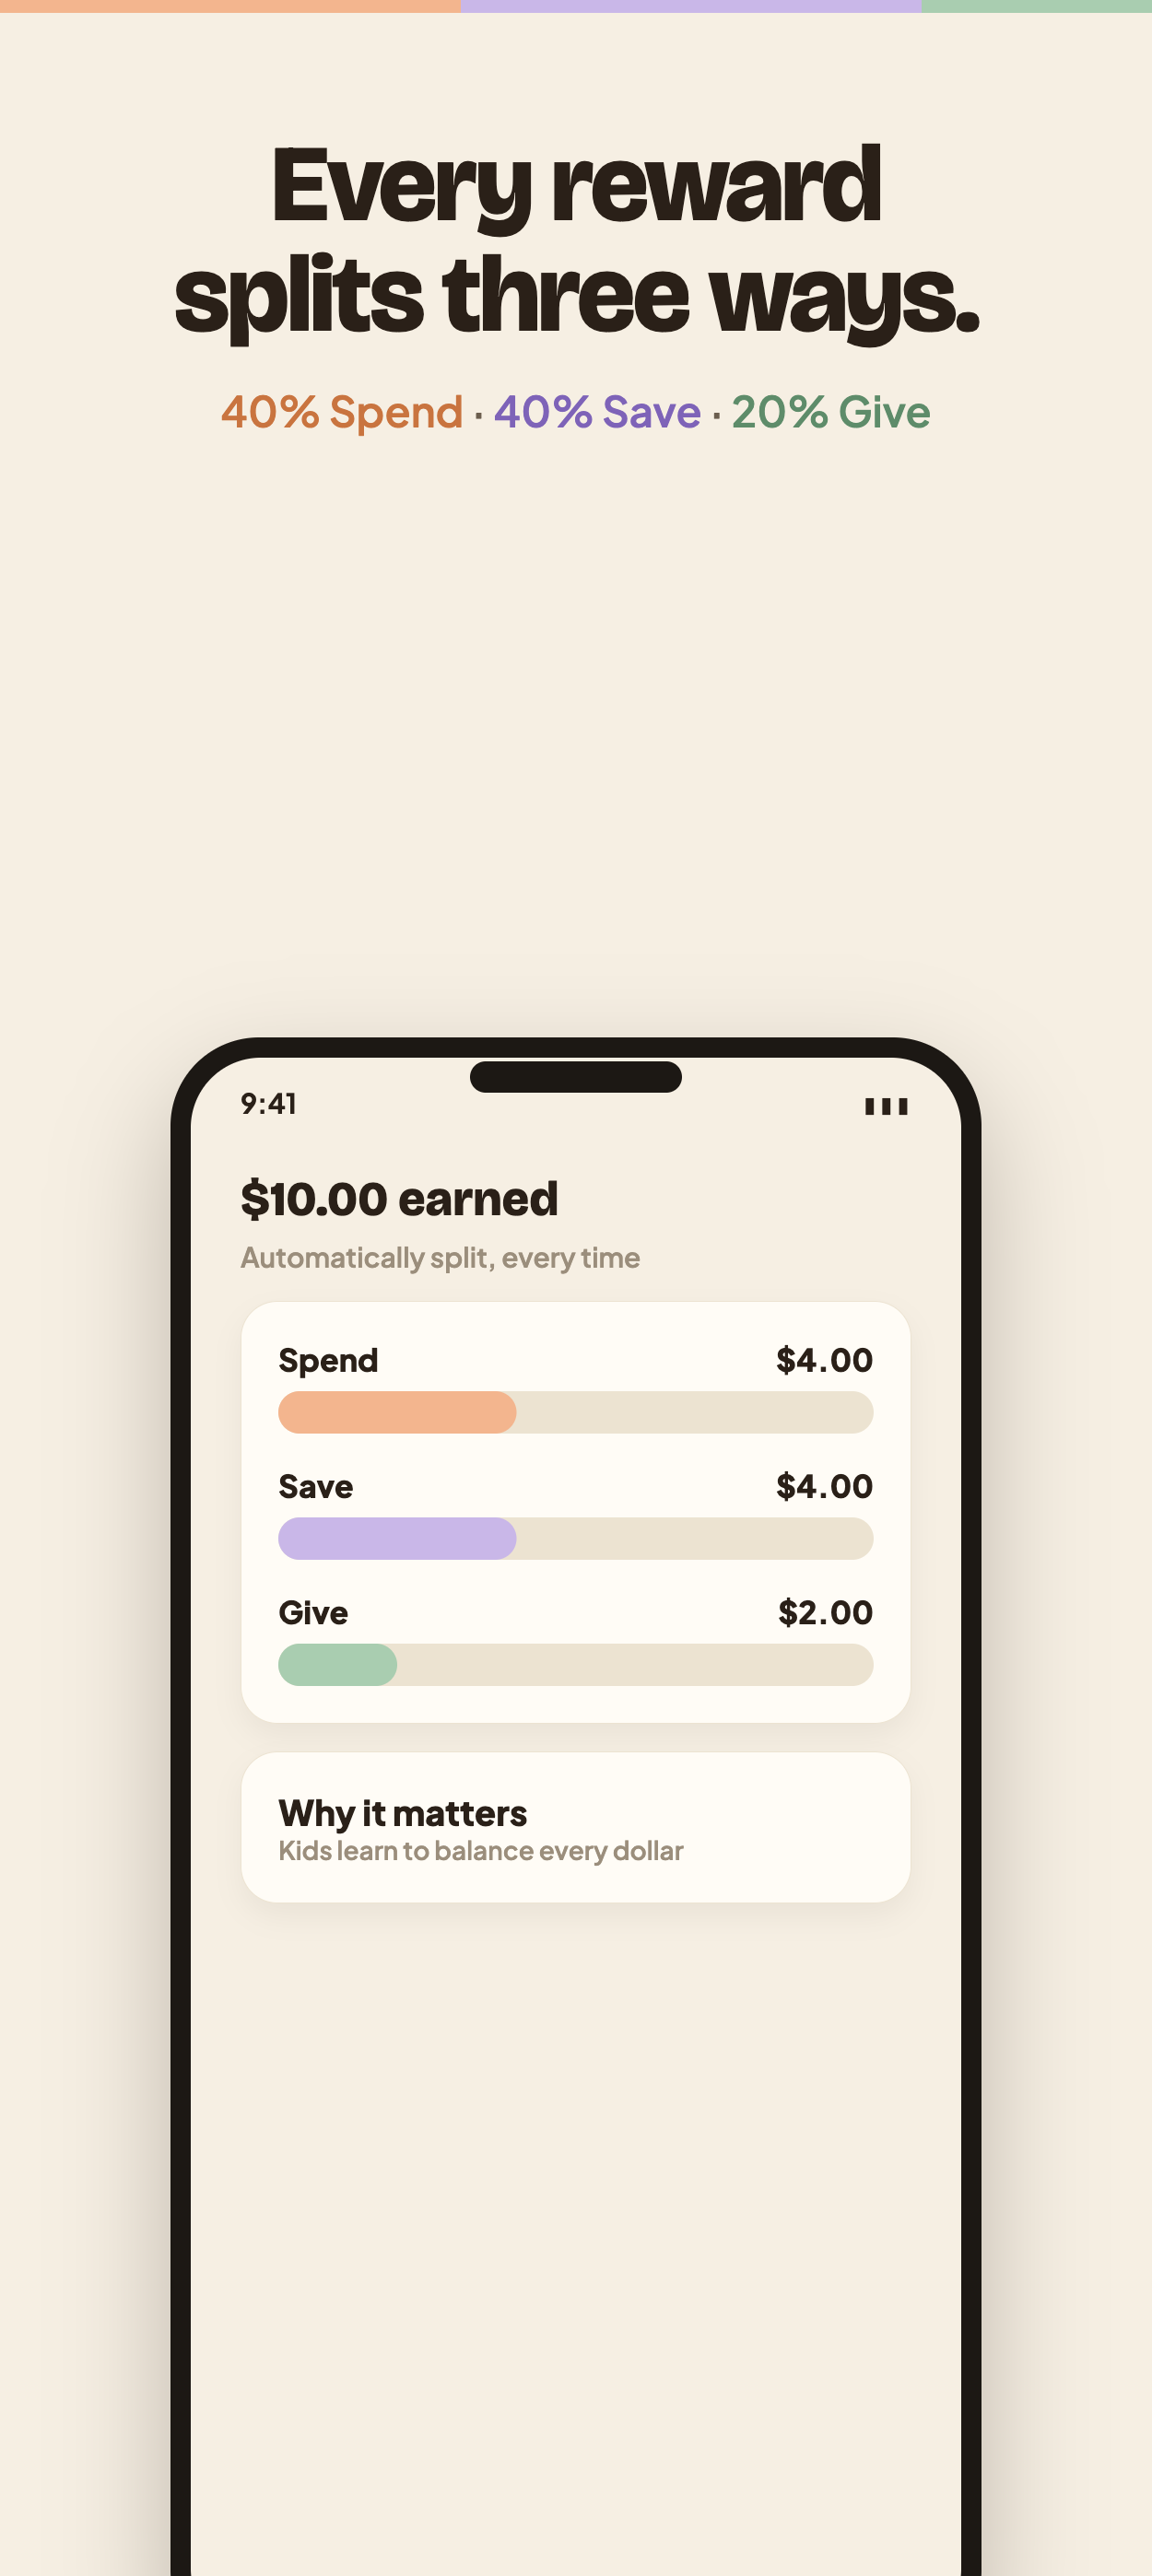
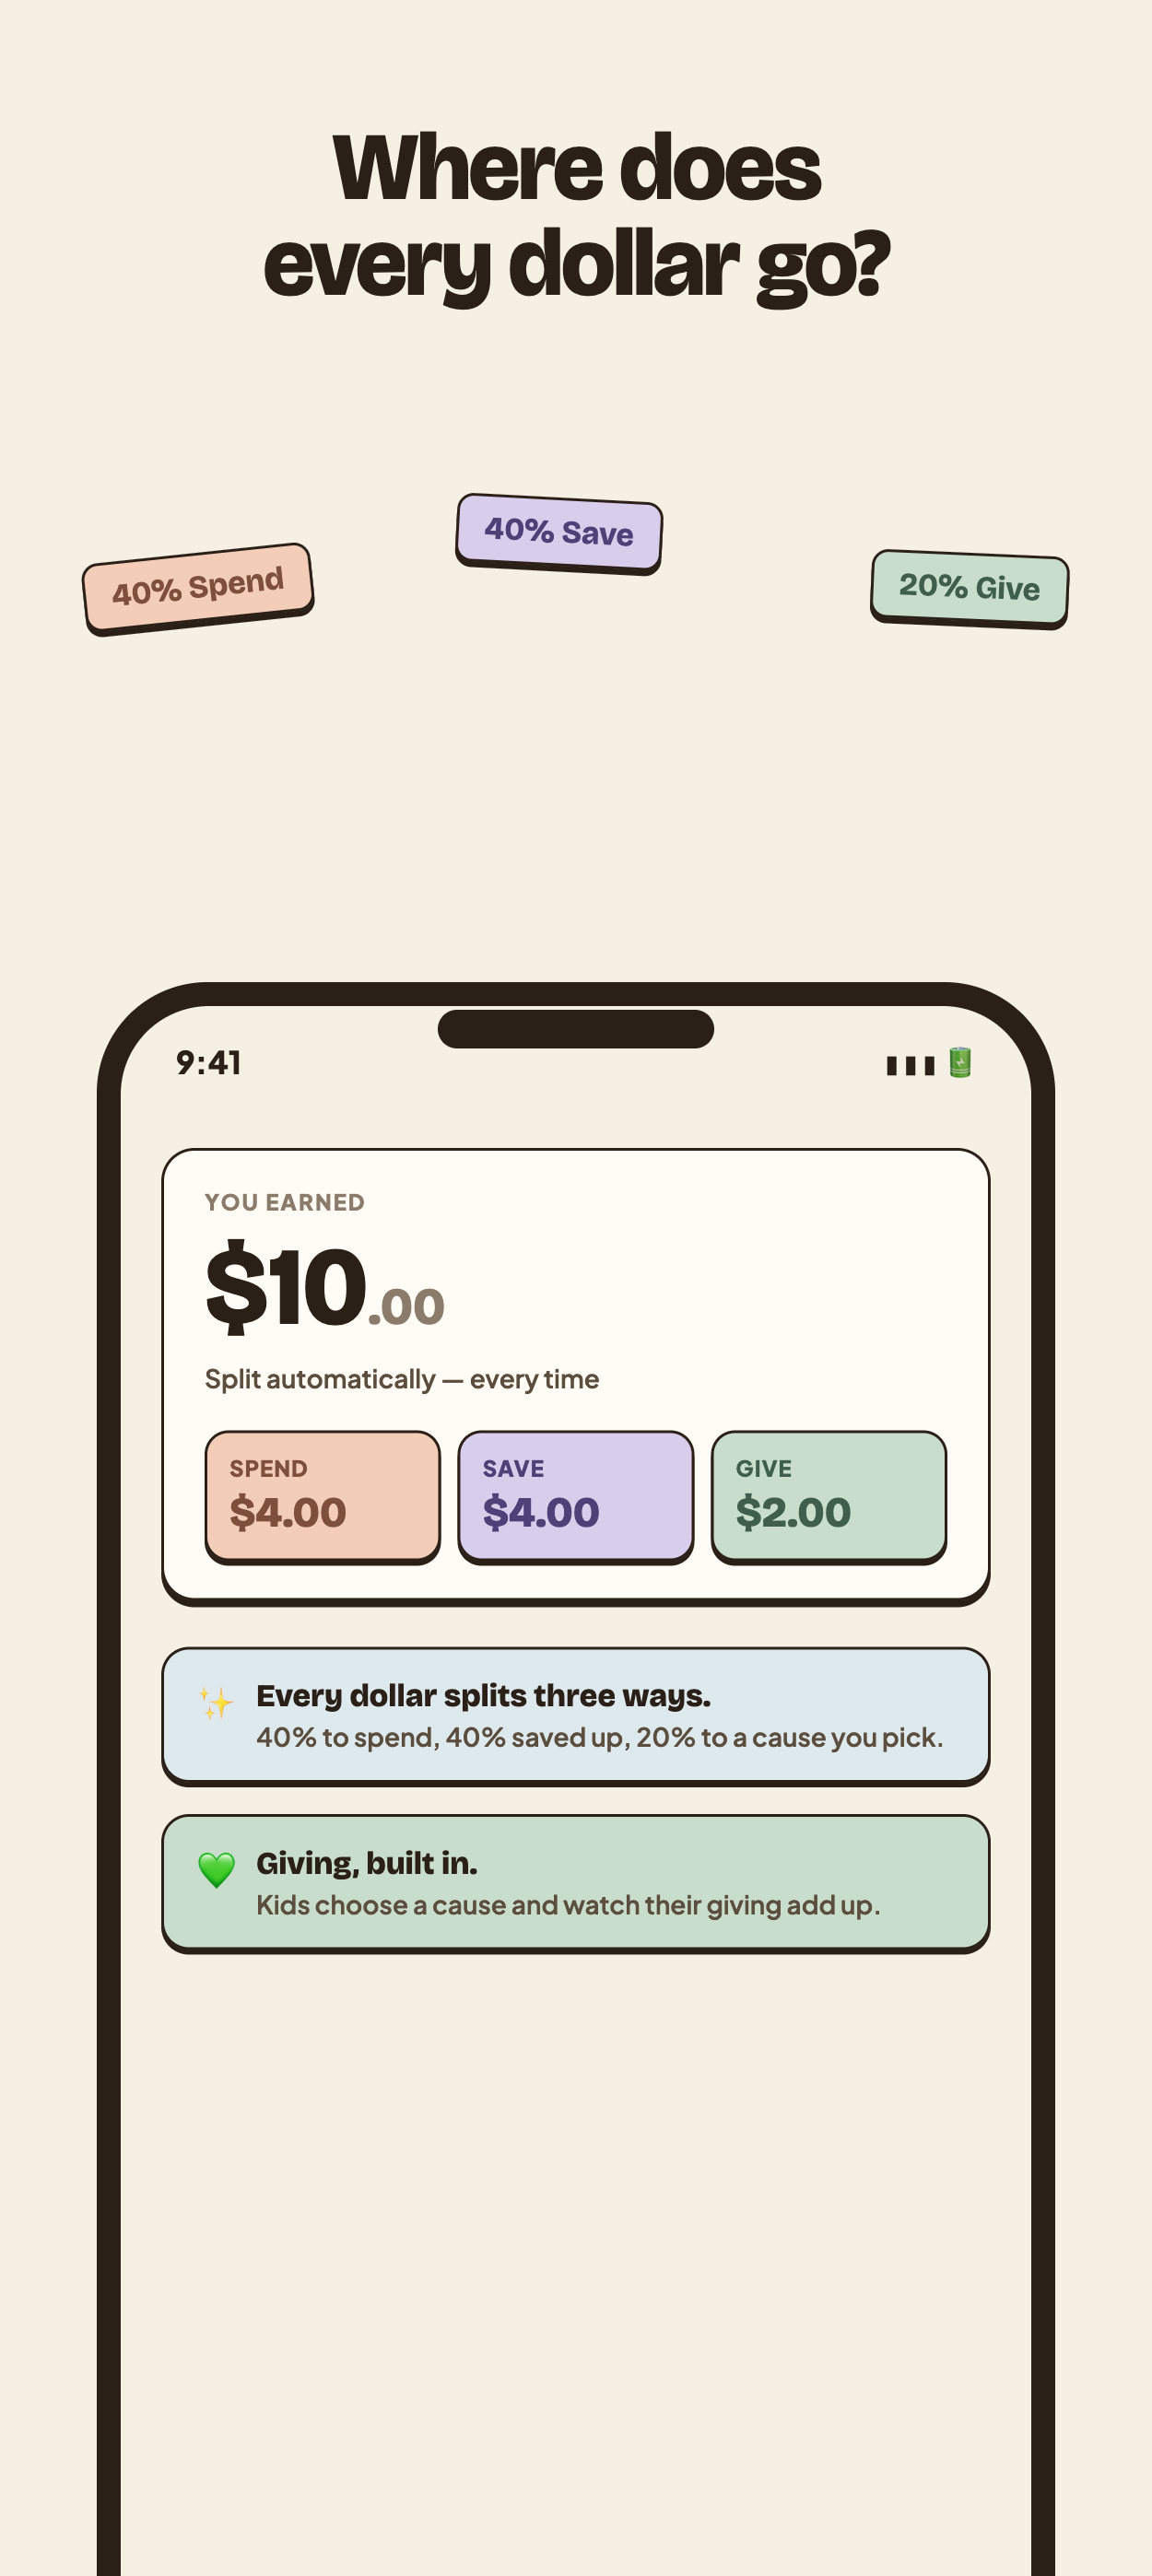
docs(app-store): rebuild screenshots in the real toybox style
Replace the generic mock with faithful recreations of the actual app
screens (kid home, the 40/40/20 split, parent approve board, levels) in
the toybox design language — ink outlines, hard offset shadows, rotated
stickers, real bucket ramp colors, squircle avatars, giving-green Approve.
Each panel poses a question answered by the app screen.

Changed region(s): [[0.0624, 0.3734, 0.936, 1.0], [0.0, 0.0, 1.0, 0.2489]]

diff --git a/docs/app-store/screenshots.html b/docs/app-store/screenshots.html
@@ -2,99 +2,137 @@
 <html lang="en">
 <head>
 <meta charset="utf-8" />
-<title>Chorey — App Store screenshots</title>
+<title>Chorey — App Store screenshots (toybox)</title>
 <link rel="preconnect" href="https://fonts.googleapis.com" />
 <link rel="preconnect" href="https://fonts.gstatic.com" crossorigin />
-<link href="https://fonts.googleapis.com/css2?family=Bricolage+Grotesque:opsz,wght@12..96,600;12..96,700;12..96,800&family=Plus+Jakarta+Sans:wght@400;600;700;800&display=swap" rel="stylesheet" />
+<link href="https://fonts.googleapis.com/css2?family=Bricolage+Grotesque:opsz,wght@12..96,600;12..96,700;12..96,800&family=Plus+Jakarta+Sans:wght@500;600;700;800&display=swap" rel="stylesheet" />
 <style>
   :root{
-    --cream:#F6EFE3; --cream-deep:#ECE3D1; --surface:#FFFCF6;
-    --ink:#2A2018; --ink-soft:#6B5E4E; --ink-faint:#9B8E7C;
-    --spend:#F3B58E; --savings:#C9B7E8; --giving:#A9CDB0;
-    --accent:#E8965E; --dark:#1C1814;
+    --cream:#F6EFE3; --raised:#FBF7EE; --modal:#FFFCF5; --sunken:#F1E9D9; --deepest:#ECE3D1;
+    --ink:#2A2018; --ink2:#5C4E3F; --ink3:#8A7B6A;
+    --spend2:#F4CDB9; --spend4:#E8B4A0; --spend8:#7E4F3A;
+    --save2:#D9CDEC; --save4:#C8B8E0; --save8:#4F4078;
+    --give2:#C9DDCD; --give4:#A8C9B5; --give6:#6F9881; --give8:#3F5E4C;
+    --accent:#C58A72; --warn-t:#FAEEDC; --warn:#C28F3F; --info-t:#DEE9EE; --info:#6E8E9D;
     --disp:"Bricolage Grotesque",system-ui,sans-serif;
     --body:"Plus Jakarta Sans",system-ui,sans-serif;
   }
   *{margin:0;padding:0;box-sizing:border-box;}
-  body{background:#222;display:flex;flex-wrap:wrap;gap:40px;padding:40px;font-family:var(--body);}
+  body{background:#2a2a2a;display:flex;flex-wrap:wrap;gap:40px;padding:40px;}
 
-  /* Each panel is an exact App Store 6.7" frame: 1290 x 2796 */
-  .panel{
-    width:1290px;height:2796px;position:relative;overflow:hidden;
-    background:var(--cream);display:flex;flex-direction:column;align-items:center;
-  }
-  .panel .stripe{position:absolute;top:0;left:0;right:0;height:14px;display:flex;}
-  .stripe i{height:100%;}
-  .stripe .s{flex:40;background:var(--spend);}
-  .stripe .v{flex:40;background:var(--savings);}
-  .stripe .g{flex:20;background:var(--giving);}
+  .panel{width:1290px;height:2796px;position:relative;overflow:hidden;background:var(--cream);
+    font-family:var(--body);display:flex;flex-direction:column;align-items:center;}
 
-  .headline{padding:140px 110px 0;text-align:center;}
-  .headline h1{font-family:var(--disp);font-weight:800;font-size:118px;line-height:1.02;letter-spacing:-3px;color:var(--ink);}
-  .headline p{font-family:var(--body);font-weight:600;font-size:46px;line-height:1.35;color:var(--ink-soft);margin-top:34px;}
-  .headline .hl-spend{color:#C9743F;} .headline .hl-save{color:#7E63B8;} .headline .hl-give{color:#5E8C6A;}
+  /* question headline */
+  .q{padding:130px 100px 0;text-align:center;z-index:3;}
+  .q h1{font-family:var(--disp);font-weight:800;font-size:104px;line-height:1.0;letter-spacing:-2.5px;color:var(--ink);}
+  .q p{font-family:var(--body);font-weight:600;font-size:42px;color:var(--ink2);margin-top:26px;}
 
-  /* blobs */
-  .blob{position:absolute;border-radius:50%;filter:blur(2px);opacity:.55;}
+  /* toybox sticker */
+  .stk{display:inline-block;font-family:var(--disp);font-weight:700;font-size:34px;color:var(--ink);
+    border:3px solid var(--ink);border-radius:18px;padding:14px 28px;box-shadow:0 6px 0 var(--ink);
+    transform:rotate(-2deg);background:var(--warn-t);}
+  .stk.spend{background:var(--spend2);color:var(--spend8);} .stk.save{background:var(--save2);color:var(--save8);}
+  .stk.give{background:var(--give2);color:var(--give8);} .stk.rot{transform:rotate(2.5deg);}
+  .float{position:absolute;z-index:4;}
 
   /* phone */
-  .phone{margin-top:auto;margin-bottom:-90px;width:880px;height:1760px;background:var(--dark);
-    border-radius:96px;padding:22px;box-shadow:0 50px 120px rgba(42,32,24,.28);position:relative;}
-  .screen{width:100%;height:100%;background:var(--cream);border-radius:76px;overflow:hidden;position:relative;display:flex;flex-direction:column;}
-  .notch{position:absolute;top:26px;left:50%;transform:translateX(-50%);width:230px;height:34px;background:var(--dark);border-radius:20px;z-index:5;}
-  .sbar{display:flex;justify-content:space-between;padding:30px 54px 0;font-family:var(--body);font-weight:700;font-size:30px;color:var(--ink);}
-  .app{padding:54px;display:flex;flex-direction:column;gap:30px;flex:1;}
-  .app h3{font-family:var(--disp);font-weight:800;font-size:52px;color:var(--ink);}
-  .app .sub{font-family:var(--body);font-weight:600;font-size:30px;color:var(--ink-faint);margin-top:-18px;}
+  .phone{margin-top:auto;width:1040px;height:1880px;background:var(--ink);border-radius:120px;
+    padding:26px;box-shadow:0 18px 0 #1a130d;position:relative;margin-bottom:-150px;}
+  .scr{width:100%;height:100%;background:var(--cream);border-radius:96px;overflow:hidden;position:relative;}
+  .notch{position:absolute;top:30px;left:50%;transform:translateX(-50%);width:300px;height:42px;background:var(--ink);border-radius:24px;z-index:6;}
+  .sb{display:flex;justify-content:space-between;padding:38px 60px 0;font-family:var(--body);font-weight:800;font-size:34px;color:var(--ink);}
+  .app{padding:30px 44px;display:flex;flex-direction:column;}
 
-  .card{background:var(--surface);border:1px solid var(--cream-deep);border-radius:40px;padding:40px;box-shadow:0 14px 30px rgba(42,32,24,.06);}
-  .row{display:flex;align-items:center;gap:28px;}
-  .av{width:90px;height:90px;border-radius:28px;background:var(--savings);display:flex;align-items:center;justify-content:center;font-family:var(--disp);font-weight:800;font-size:44px;color:#3c2f5a;}
-  .grow{flex:1;}
-  .t1{font-family:var(--body);font-weight:800;font-size:38px;color:var(--ink);}
-  .t2{font-family:var(--body);font-weight:600;font-size:28px;color:var(--ink-faint);}
-  .pill{font-family:var(--body);font-weight:800;font-size:30px;padding:16px 30px;border-radius:999px;background:var(--accent);color:#fff;}
-  .pill.ghost{background:var(--cream);color:var(--ink-soft);border:1px solid var(--cream-deep);}
+  .over{font-family:var(--body);font-weight:800;font-size:24px;letter-spacing:2px;text-transform:uppercase;color:var(--ink3);}
+  .greet{font-family:var(--disp);font-weight:800;font-size:74px;letter-spacing:-2px;color:var(--ink);margin-top:6px;}
 
-  /* bucket bars */
-  .buckets{display:flex;flex-direction:column;gap:34px;}
-  .bk{display:flex;flex-direction:column;gap:14px;}
-  .bk .lab{display:flex;justify-content:space-between;font-family:var(--body);font-weight:800;font-size:34px;color:var(--ink);}
-  .bk .bar{height:46px;border-radius:999px;background:var(--cream-deep);overflow:hidden;}
-  .bk .fill{height:100%;border-radius:999px;}
-  .fill.spend{width:40%;background:var(--spend);} .fill.save{width:40%;background:var(--savings);} .fill.give{width:20%;background:var(--giving);}
+  /* toy tile */
+  .tile{background:var(--modal);border:3px solid var(--ink);border-radius:36px;box-shadow:0 7px 0 var(--ink);}
+  .tile.sm{box-shadow:0 5px 0 var(--ink);}
 
-  .coin{position:absolute;width:120px;height:120px;border-radius:50%;display:flex;align-items:center;justify-content:center;font-size:60px;box-shadow:0 16px 30px rgba(42,32,24,.12);}
+  .lvlrow{display:flex;align-items:center;justify-content:space-between;margin-top:34px;}
+  .chip{font-family:var(--disp);font-weight:700;font-size:30px;border:3px solid var(--ink);border-radius:14px;padding:8px 22px;box-shadow:0 5px 0 var(--ink);}
+  .chip.save{background:var(--save2);color:var(--save8);}
+  .cap{font-family:var(--body);font-weight:600;font-size:28px;color:var(--ink2);}
+  .bar{height:26px;background:var(--sunken);border:3px solid var(--ink);border-radius:999px;overflow:hidden;margin-top:18px;}
+  .bar i{display:block;height:100%;background:var(--save4);}
 
-  /* closing panel */
-  .close{justify-content:center;gap:50px;padding:0 120px;}
-  .close .mark{font-family:var(--disp);font-weight:800;font-size:150px;letter-spacing:-5px;color:var(--ink);}
-  .close .three{display:flex;gap:30px;margin-top:20px;}
-  .chip{font-family:var(--disp);font-weight:800;font-size:62px;padding:30px 54px;border-radius:40px;color:#3a2c1e;}
+  .hero{margin-top:34px;padding:40px 44px;}
+  .money{font-family:var(--disp);font-weight:800;color:var(--ink);}
+  .triple{display:flex;gap:18px;margin-top:30px;}
+  .bk{flex:1;border:3px solid var(--ink);border-radius:26px;box-shadow:0 5px 0 var(--ink);padding:22px 24px;}
+  .bk .bl{font-family:var(--body);font-weight:800;font-size:24px;letter-spacing:1px;text-transform:uppercase;}
+  .bk .bv{font-family:var(--disp);font-weight:800;font-size:46px;margin-top:6px;}
+  .bk.spend{background:var(--spend2);} .bk.spend .bl,.bk.spend .bv{color:var(--spend8);}
+  .bk.save{background:var(--save2);} .bk.save .bl,.bk.save .bv{color:var(--save8);}
+  .bk.give{background:var(--give2);} .bk.give .bl,.bk.give .bv{color:var(--give8);}
+
+  .sec{margin-top:46px;}
+  .sec .h{font-family:var(--disp);font-weight:800;font-size:52px;color:var(--ink);margin-top:6px;}
+  .sec .h .mut{color:var(--ink3);}
+
+  .list{margin-top:24px;}
+  .crow{display:flex;align-items:center;gap:28px;padding:30px 40px;border-bottom:2px solid var(--deepest);}
+  .crow:last-child{border-bottom:none;}
+  .cb{width:54px;height:54px;border:3px solid var(--ink);border-radius:18px;display:flex;align-items:center;justify-content:center;font-size:34px;flex:none;}
+  .cb.done{background:var(--give4);color:var(--give8);} .cb.todo{background:var(--cream);}
+  .cb.wait{background:var(--warn-t);color:var(--warn);border-radius:999px;}
+  .cgrow{flex:1;min-width:0;}
+  .ct{font-family:var(--body);font-weight:800;font-size:36px;color:var(--ink);}
+  .ct.done{color:var(--ink3);text-decoration:line-through;}
+  .csub{font-family:var(--body);font-weight:600;font-size:26px;margin-top:2px;}
+  .cmoney{font-family:var(--disp);font-weight:800;font-size:36px;text-align:right;}
+  .cpts{font-family:var(--body);font-weight:700;font-size:24px;color:var(--save8);text-align:right;margin-top:2px;}
+
+  .note{margin-top:34px;padding:30px 36px;display:flex;gap:22px;align-items:flex-start;background:var(--info-t);border:3px solid var(--ink);border-radius:30px;box-shadow:0 5px 0 var(--ink);}
+  .note .nt{font-family:var(--disp);font-weight:800;font-size:34px;color:var(--ink);}
+  .note .nc{font-family:var(--body);font-weight:600;font-size:28px;color:var(--ink2);margin-top:6px;}
+  .spark{font-size:42px;}
+
+  /* parent approve buttons */
+  .btn{font-family:var(--disp);font-weight:700;font-size:32px;border:3px solid var(--ink);border-radius:999px;padding:18px 0;text-align:center;box-shadow:0 6px 0 var(--ink);}
+  .btn.approve{background:var(--give4);color:var(--give8);flex:1.4;}
+  .btn.back{background:var(--cream);color:var(--ink2);flex:1;}
+
+  /* brand close */
+  .close{justify-content:center;gap:60px;}
+  .mark{font-family:var(--disp);font-weight:800;font-size:200px;letter-spacing:-8px;color:var(--ink);}
+  .row3{display:flex;gap:40px;}
+  .tagline{font-family:var(--body);font-weight:600;font-size:46px;color:var(--ink2);text-align:center;max-width:920px;}
 </style>
 </head>
 <body>
 
-<!-- 1. HERO -->
+<!-- 1. KID HOME (full real screen) -->
 <section class="panel" id="p1">
-  <div class="stripe"><i class="s"></i><i class="v"></i><i class="g"></i></div>
-  <div class="blob" style="width:420px;height:420px;background:var(--spend);top:340px;left:-120px;"></div>
-  <div class="blob" style="width:300px;height:300px;background:var(--giving);top:220px;right:-80px;"></div>
-  <div class="headline">
-    <h1>Chores that<br>actually pay off.</h1>
-    <p>Real rewards. Real money habits.<br>For the whole family.</p>
-  </div>
-  <div class="coin" style="background:var(--spend);top:880px;left:180px;">🪙</div>
-  <div class="coin" style="background:var(--giving);top:980px;right:170px;">💚</div>
+  <div class="q"><h1>Chore done.<br>So… now what?</h1></div>
+  <div class="float stk give" style="top:560px;left:80px;transform:rotate(-7deg);">Real money 🪙</div>
+  <div class="float stk save rot" style="top:520px;right:70px;">+8 pts ✨</div>
   <div class="phone">
     <div class="notch"></div>
-    <div class="screen">
-      <div class="sbar"><span>9:41</span><span>▮▮▮</span></div>
+    <div class="scr">
+      <div class="sb"><span>9:41</span><span>▮▮▮ 🔋</span></div>
       <div class="app">
-        <h3>This week</h3>
-        <div class="card row"><div class="av">M</div><div class="grow"><div class="t1">Make your bed</div><div class="t2">Mia · $2.00</div></div><div class="pill">Approve</div></div>
-        <div class="card row"><div class="av" style="background:var(--giving);color:#2f4a39;">L</div><div class="grow"><div class="t1">Walk the dog</div><div class="t2">Leo · $3.00</div></div><div class="pill ghost">Pending</div></div>
-        <div class="card row"><div class="av" style="background:var(--spend);color:#7a4322;">M</div><div class="grow"><div class="t1">Tidy room</div><div class="t2">Mia · $1.50</div></div><div class="pill">Approve</div></div>
+        <div class="over">Monday</div>
+        <div class="greet">Hey, Mia.</div>
+        <div class="lvlrow"><span class="chip save">Level 3</span><span class="cap">120 / 200 to level 4</span></div>
+        <div class="bar"><i style="width:60%"></i></div>
+        <div class="tile hero">
+          <div class="over">Your money</div>
+          <div style="margin-top:6px;"><span class="money" style="font-size:108px;">$24</span><span class="money" style="font-size:52px;color:var(--ink3);">.50</span></div>
+          <div class="triple">
+            <div class="bk spend"><div class="bl">Spend</div><div class="bv">$9.80</div></div>
+            <div class="bk save"><div class="bl">🔒 Save</div><div class="bv">$9.80</div></div>
+            <div class="bk give"><div class="bl">Give</div><div class="bv">$4.90</div></div>
+          </div>
+        </div>
+        <div class="sec"><div class="over">Today</div><div class="h">2 chores <span class="mut">to go</span></div></div>
+        <div class="tile list">
+          <div class="crow"><div class="cb done">✓</div><div class="cgrow"><div class="ct done">Make your bed</div></div><div><div class="cmoney" style="color:var(--give6)">+$2.00</div><div class="cpts">+8 pts</div></div></div>
+          <div class="crow"><div class="cb wait">◷</div><div class="cgrow"><div class="ct">Walk the dog</div><div class="csub" style="color:var(--warn)">Waiting for a parent</div></div><div><div class="cmoney" style="color:var(--ink3)">$3.00</div><div class="cpts">+12 pts</div></div></div>
+          <div class="crow"><div class="cb todo"></div><div class="cgrow"><div class="ct">Tidy your room</div></div><div><div class="cmoney" style="color:var(--ink3)">$1.50</div><div class="cpts">+6 pts</div></div></div>
+        </div>
       </div>
     </div>
   </div>
@@ -102,85 +140,104 @@
 
 <!-- 2. THE SPLIT -->
 <section class="panel" id="p2">
-  <div class="stripe"><i class="s"></i><i class="v"></i><i class="g"></i></div>
-  <div class="headline">
-    <h1>Every reward<br>splits three ways.</h1>
-    <p><span class="hl-spend">40% Spend</span> · <span class="hl-save">40% Save</span> · <span class="hl-give">20% Give</span></p>
-  </div>
+  <div class="q"><h1>Where does<br>every dollar go?</h1></div>
+  <div class="float stk spend" style="top:600px;left:90px;transform:rotate(-6deg);">40% Spend</div>
+  <div class="float stk save" style="top:540px;left:50%;margin-left:-130px;transform:rotate(3deg);">40% Save</div>
+  <div class="float stk give rot" style="top:600px;right:90px;">20% Give</div>
   <div class="phone">
     <div class="notch"></div>
-    <div class="screen">
-      <div class="sbar"><span>9:41</span><span>▮▮▮</span></div>
+    <div class="scr">
+      <div class="sb"><span>9:41</span><span>▮▮▮ 🔋</span></div>
       <div class="app">
-        <h3>$10.00 earned</h3>
-        <div class="sub">Automatically split, every time</div>
-        <div class="card buckets">
-          <div class="bk"><div class="lab"><span>Spend</span><span>$4.00</span></div><div class="bar"><div class="fill spend"></div></div></div>
-          <div class="bk"><div class="lab"><span>Save</span><span>$4.00</span></div><div class="bar"><div class="fill save"></div></div></div>
-          <div class="bk"><div class="lab"><span>Give</span><span>$2.00</span></div><div class="bar"><div class="fill give"></div></div></div>
+        <div class="tile hero" style="margin-top:40px;">
+          <div class="over">You earned</div>
+          <div style="margin-top:6px;"><span class="money" style="font-size:120px;">$10</span><span class="money" style="font-size:56px;color:var(--ink3);">.00</span></div>
+          <div class="cap" style="margin-top:8px;">Split automatically — every time</div>
+          <div class="triple" style="margin-top:40px;">
+            <div class="bk spend"><div class="bl">Spend</div><div class="bv">$4.00</div></div>
+            <div class="bk save"><div class="bl">Save</div><div class="bv">$4.00</div></div>
+            <div class="bk give"><div class="bl">Give</div><div class="bv">$2.00</div></div>
+          </div>
         </div>
-        <div class="card row"><div class="grow"><div class="t1">Why it matters</div><div class="t2">Kids learn to balance every dollar</div></div></div>
+        <div class="note" style="margin-top:50px;"><span class="spark">✨</span><div><div class="nt">Every dollar splits three ways.</div><div class="nc">40% to spend, 40% saved up, 20% to a cause you pick.</div></div></div>
+        <div class="note" style="background:var(--give2);margin-top:34px;"><span class="spark">💚</span><div><div class="nt">Giving, built in.</div><div class="nc">Kids choose a cause and watch their giving add up.</div></div></div>
       </div>
     </div>
   </div>
 </section>
 
-<!-- 3. KID VIEW -->
+<!-- 3. PARENT APPROVE -->
 <section class="panel" id="p3">
-  <div class="stripe"><i class="s"></i><i class="v"></i><i class="g"></i></div>
-  <div class="blob" style="width:360px;height:360px;background:var(--savings);top:300px;right:-110px;"></div>
-  <div class="headline">
-    <h1>Kids watch<br>their money grow.</h1>
-    <p>Their own simple, joyful money home.</p>
-  </div>
+  <div class="q"><h1>Stay in control —<br>without the nagging.</h1></div>
+  <div class="float stk" style="top:560px;right:80px;transform:rotate(6deg);background:var(--give2);color:var(--give8);">Tap to approve ✓</div>
   <div class="phone">
     <div class="notch"></div>
-    <div class="screen">
-      <div class="sbar"><span>9:41</span><span>▮▮▮</span></div>
+    <div class="scr">
+      <div class="sb"><span>9:41</span><span>▮▮▮ 🔋</span></div>
       <div class="app">
-        <div class="row"><div class="av">M</div><div class="grow"><div class="t1">Hi, Mia!</div><div class="t2">You have $24.50</div></div></div>
-        <div class="card" style="background:var(--spend);border:none;"><div class="t2" style="color:#7a4322;">Spend</div><div class="t1" style="font-size:64px;color:#5e3115;">$9.80</div></div>
-        <div class="card" style="background:var(--savings);border:none;"><div class="t2" style="color:#4a3a70;">Save</div><div class="t1" style="font-size:64px;color:#3c2f5a;">$9.80</div></div>
-        <div class="card" style="background:var(--giving);border:none;"><div class="t2" style="color:#2f4a39;">Give</div><div class="t1" style="font-size:64px;color:#244534;">$4.90</div></div>
+        <div class="greet" style="margin-top:20px;">Chores</div>
+        <div class="lvlrow" style="margin-top:30px;"><span class="chip" style="background:var(--warn-t);color:var(--warn);">Needs your approval · 2</span></div>
+        <div class="tile" style="margin-top:30px;padding:34px 40px;">
+          <div style="display:flex;align-items:center;gap:26px;">
+            <div class="cb" style="width:76px;height:76px;border-radius:24px;background:var(--give2);color:var(--give8);font-family:var(--disp);font-weight:800;font-size:44px;">L</div>
+            <div class="cgrow"><div class="ct">Take out the trash</div><div class="csub" style="color:var(--ink3)">Leo · done 2h ago</div></div>
+            <div class="cmoney">$3.00</div>
+          </div>
+          <div style="display:flex;gap:24px;margin-top:30px;"><div class="btn approve">Approve</div><div class="btn back">Send back</div></div>
+        </div>
+        <div class="tile" style="margin-top:34px;padding:34px 40px;">
+          <div style="display:flex;align-items:center;gap:26px;">
+            <div class="cb" style="width:76px;height:76px;border-radius:24px;background:var(--save2);color:var(--save8);font-family:var(--disp);font-weight:800;font-size:44px;">M</div>
+            <div class="cgrow"><div class="ct">Practice piano</div><div class="csub" style="color:var(--ink3)">Mia · done 5h ago</div></div>
+            <div class="cmoney">$2.00</div>
+          </div>
+          <div style="display:flex;gap:24px;margin-top:30px;"><div class="btn approve">Approve</div><div class="btn back">Send back</div></div>
+        </div>
+        <div class="sec"><div class="over">Done this week</div><div class="h" style="font-size:44px;">7 approved <span class="mut">· $18.50</span></div></div>
       </div>
     </div>
   </div>
 </section>
 
-<!-- 4. PARENT APPROVE -->
+<!-- 4. ENGAGEMENT / LEVELS -->
 <section class="panel" id="p4">
-  <div class="stripe"><i class="s"></i><i class="v"></i><i class="g"></i></div>
-  <div class="headline">
-    <h1>Approve great<br>work in a tap.</h1>
-    <p>Review, send back, or reward — fast.</p>
-  </div>
-  <div class="coin" style="background:var(--savings);top:840px;left:150px;">✨</div>
+  <div class="q"><h1>Why do kids<br>keep coming back?</h1></div>
+  <div class="float stk save" style="top:560px;left:80px;transform:rotate(-7deg);">Level up! 🚀</div>
+  <div class="float stk give rot" style="top:600px;right:80px;">Streak: 6 🔥</div>
   <div class="phone">
     <div class="notch"></div>
-    <div class="screen">
-      <div class="sbar"><span>9:41</span><span>▮▮▮</span></div>
+    <div class="scr">
+      <div class="sb"><span>9:41</span><span>▮▮▮ 🔋</span></div>
       <div class="app">
-        <h3>Needs review</h3>
-        <div class="card"><div class="row"><div class="av" style="background:var(--giving);color:#2f4a39;">L</div><div class="grow"><div class="t1">Take out trash</div><div class="t2">Leo · submitted 2h ago</div></div></div>
-          <div class="row" style="margin-top:34px;"><div class="pill" style="flex:1;text-align:center;">Approve $3.00</div><div class="pill ghost" style="flex:1;text-align:center;">Send back</div></div></div>
-        <div class="card row"><div class="av">M</div><div class="grow"><div class="t1">Practice piano</div><div class="t2">Mia · submitted 5h ago</div></div><div class="pill">Approve</div></div>
+        <div class="over" style="margin-top:20px;">Your journey</div>
+        <div class="greet">Level 3</div>
+        <div class="cap" style="margin-top:8px;">120 / 200 points to level 4</div>
+        <div class="bar" style="height:34px;"><i style="width:60%"></i></div>
+        <div class="tile" style="margin-top:50px;padding:40px;background:var(--save2);">
+          <div class="nt" style="font-family:var(--disp);font-weight:800;font-size:44px;color:var(--save8);">Every chore earns points.</div>
+          <div class="nc" style="font-family:var(--body);font-weight:600;font-size:30px;color:var(--ink2);margin-top:10px;">Drive your car down the road and unlock new levels.</div>
+        </div>
+        <div style="display:flex;gap:24px;margin-top:40px;">
+          <div class="tile sm" style="flex:1;padding:34px;text-align:center;background:var(--spend2);"><div class="money" style="font-size:64px;color:var(--spend8);">$24</div><div class="bl" style="font-family:var(--body);font-weight:800;font-size:24px;color:var(--spend8);text-transform:uppercase;letter-spacing:1px;margin-top:6px;">Earned</div></div>
+          <div class="tile sm" style="flex:1;padding:34px;text-align:center;background:var(--give2);"><div class="money" style="font-size:64px;color:var(--give8);">320</div><div class="bl" style="font-family:var(--body);font-weight:800;font-size:24px;color:var(--give8);text-transform:uppercase;letter-spacing:1px;margin-top:6px;">Points</div></div>
+        </div>
+        <div class="note" style="margin-top:40px;"><span class="spark">🏆</span><div><div class="nt">Real rewards, real habits.</div><div class="nc">Saving and giving feel as good as spending.</div></div></div>
       </div>
     </div>
   </div>
 </section>
 
-<!-- 5. CLOSING -->
+<!-- 5. BRAND CLOSE -->
 <section class="panel close" id="p5">
-  <div class="stripe"><i class="s"></i><i class="v"></i><i class="g"></i></div>
-  <div class="blob" style="width:520px;height:520px;background:var(--spend);top:520px;left:-160px;"></div>
-  <div class="blob" style="width:420px;height:420px;background:var(--giving);bottom:420px;right:-150px;"></div>
+  <div class="float stk spend" style="top:520px;left:140px;transform:rotate(-10deg);font-size:44px;">🪙</div>
+  <div class="float stk give rot" style="top:560px;right:150px;font-size:44px;">💚</div>
   <div class="mark">chorey</div>
-  <div class="three">
-    <span class="chip" style="background:var(--spend);">Spend</span>
-    <span class="chip" style="background:var(--savings);">Save</span>
-    <span class="chip" style="background:var(--giving);">Give</span>
+  <div class="row3">
+    <span class="stk spend" style="font-size:54px;transform:rotate(-4deg);">Spend</span>
+    <span class="stk save" style="font-size:54px;transform:rotate(2deg);">Save</span>
+    <span class="stk give" style="font-size:54px;transform:rotate(-3deg);">Give</span>
   </div>
-  <p style="font-family:var(--body);font-weight:600;font-size:48px;color:var(--ink-soft);text-align:center;max-width:900px;">Chores that teach kids to spend, save, and give — from day one.</p>
+  <div class="tagline">Chores that teach kids to spend, save, and give — from day one.</div>
 </section>
 
 </body>

diff --git a/docs/app-store/README.md b/docs/app-store/README.md
@@ -7,18 +7,27 @@ Branded, on-brand marketing screenshot panels for the store listings.
   (App Store 6.7"). Uses the Chorey palette + Bricolage / Plus Jakarta fonts.
 - `preview-*.png` — rendered previews of each panel (for quick review).
 
+## Style
+Built in the app's **toybox** language — outlined tiles (`2–3px` ink `#2A2018`
+borders), **hard offset shadows** (`0 Npx 0`, no blur), rotated **stickers**, the
+real bucket ramps (Spend `#F4CDB9` / Save `#D9CDEC` / Give `#C9DDCD`), squircle
+avatars and the giving-green Approve button — matching `src/components/toybox.tsx`
+and the real kid-home / parent-chores screens.
+
+Each panel poses a **question** that the app screen answers.
+
 ## The 5 panels
-1. **Hero** — "Chores that actually pay off."
-2. **The split** — "Every reward splits three ways." (40/40/20)
-3. **Kid view** — "Kids watch their money grow."
-4. **Parent approve** — "Approve great work in a tap."
-5. **Brand close** — Spend · Save · Give.
+1. **Kid home** — "Chore done. So… now what?" → real home: balance, bucket triple, chore list.
+2. **The split** — "Where does every dollar go?" → the 40/40/20 split + giving note.
+3. **Parent approve** — "Stay in control — without the nagging." → Needs-approval board.
+4. **Levels** — "Why do kids keep coming back?" → level road, points, streak.
+5. **Brand close** — chorey · Spend / Save / Give stickers.
 
 ## ⚠️ Before submitting: swap in real app captures
-The phone content in each panel is an **on-brand mock**, not the real UI. Apple/
-Google want screenshots that reflect the actual app, so replace the mock inside
-each `.screen` with a **real screenshot** of the corresponding app screen before
-uploading. (The headline + frame + background stay.)
+The phone content is a **faithful recreation** of the real screens, but Apple/
+Google want screenshots of the actual running app. Replace each phone's `.scr`
+content with a **real screen capture** before uploading (headline + frame +
+stickers stay). The recreation mirrors the real screens, so the swap is 1:1.
 
 ## Exporting exact-size PNGs
 Open `screenshots.html` over a local server and capture each panel at its exact